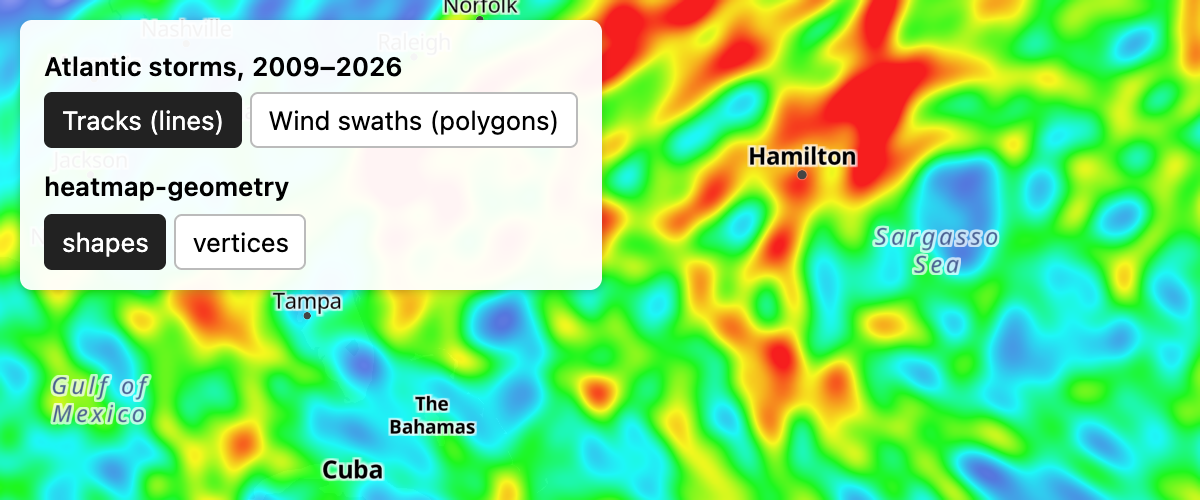
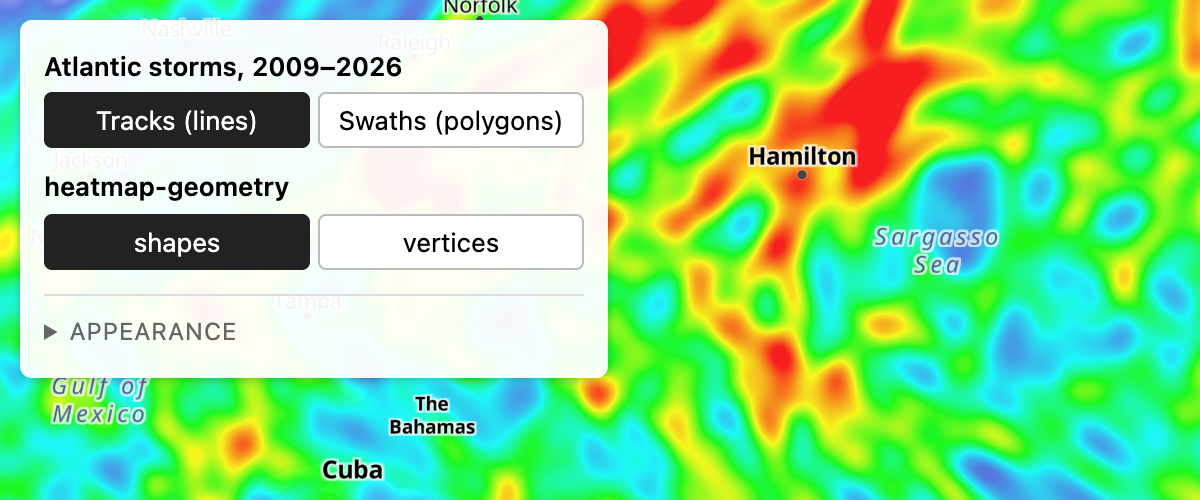
Add appearance controls to the lines and polygons heatmap example

Changed region(s): [[0.0, 0.03, 0.5242, 0.78]]

diff --git a/test/examples/create-a-heatmap-of-lines-and-polygons.html b/test/examples/create-a-heatmap-of-lines-and-polygons.html
@@ -14,15 +14,19 @@
         body { margin: 0; padding: 0; font: 13px/1.4 system-ui, sans-serif; }
         html, body, #map { height: 100%; }
         #panel {
-            position: absolute; top: 10px; left: 10px; padding: 10px 12px;
-            background: rgba(255, 255, 255, 0.95); border-radius: 6px; box-shadow: 0 1px 4px rgba(0, 0, 0, 0.2);
+            position: absolute; top: 10px; left: 10px; width: 270px; max-height: calc(100% - 40px); overflow-y: auto;
+            padding: 10px 12px; background: rgba(255, 255, 255, 0.95); border-radius: 6px; box-shadow: 0 1px 4px rgba(0, 0, 0, 0.2);
         }
+        summary { font-size: 12px; text-transform: uppercase; letter-spacing: 0.04em; color: #666; margin: 12px 0 4px; border-top: 1px solid #ddd; padding-top: 10px; cursor: pointer; }
         .row { margin: 4px 0 10px; }
         .row:last-child { margin-bottom: 0; }
-        .row label { display: block; font-weight: 600; margin-bottom: 4px; }
+        .row label { display: flex; justify-content: space-between; font-weight: 600; margin-bottom: 4px; }
+        .row label output { font-weight: 400; color: #555; }
         .seg { display: flex; gap: 4px; }
-        .seg button { padding: 4px 8px; border: 1px solid #bbb; background: #fff; border-radius: 4px; cursor: pointer; font: inherit; }
+        .seg button { flex: 1; padding: 4px 6px; border: 1px solid #bbb; background: #fff; border-radius: 4px; cursor: pointer; font: inherit; }
         .seg button.on { background: #222; color: #fff; border-color: #222; }
+        input[type=range], select { width: 100%; margin: 0; }
+        #ramp { height: 8px; border-radius: 2px; margin-top: 6px; }
     </style>
 </head>
 <body>
@@ -32,7 +36,7 @@
         <label>Atlantic storms, 2009–2026</label>
         <div class="seg" id="data">
             <button data-layer="tracks" class="on">Tracks (lines)</button>
-            <button data-layer="swaths">Wind swaths (polygons)</button>
+            <button data-layer="swaths">Swaths (polygons)</button>
         </div>
     </div>
     <div class="row">
@@ -42,10 +46,81 @@
             <button data-geometry="vertices">vertices</button>
         </div>
     </div>
+
+    <details id="appearance" open>
+    <summary>Appearance</summary>
+    <div class="row">
+        <label for="radius">Radius <output id="radius-value"></output></label>
+        <input id="radius" type="range" min="1" max="60" step="1">
+    </div>
+    <div class="row">
+        <label for="top">Top colour at <output id="top-value"></output></label>
+        <input id="top" type="range" min="1" max="60" step="1">
+    </div>
+    <div class="row">
+        <label for="opacity">Opacity <output id="opacity-value"></output></label>
+        <input id="opacity" type="range" min="0" max="1" step="0.05">
+    </div>
+    <div class="row">
+        <label>Weight</label>
+        <div class="seg" id="weight">
+            <button data-weight="equal" class="on">Every storm 1</button>
+            <button data-weight="category">Peak category</button>
+        </div>
+    </div>
+    <div class="row">
+        <label for="colors">Colours</label>
+        <select id="colors">
+            <option value="default">Default</option>
+            <option value="fire">Fire</option>
+            <option value="viridis">Viridis</option>
+            <option value="blues">Blues</option>
+        </select>
+        <div id="ramp"></div>
+    </div>
+    </details>
 </div>
 
 <script type="module">
     import * as maplibregl from '../../dist/maplibre-gl-dev.mjs';
+
+    const LAYERS = ['tracks', 'swaths'];
+
+    // Each layer keeps its own radius, scale and opacity, since tracks and swaths read best with
+    // different values. `top` is the density that reaches the top of the colour ramp: with
+    // `heatmap-geometry: shapes`, a long line or a polygon adds weight times intensity, so an
+    // intensity of 1 / top colours a spot covered by `top` storms of weight 1 at the top.
+    const settings = {
+        tracks: {radius: 20, top: 10, opacity: 0.85},
+        swaths: {radius: 20, top: 30, opacity: 0.85}
+    };
+    let current = 'tracks';
+
+    const WEIGHTS = {
+        equal: 1,
+        // Tropical storms count 0.5 and a category 5 hurricane counts 3.
+        category: ['+', 0.5, ['*', 0.5, ['get', 'max_category']]]
+    };
+
+    const RAMPS = {
+        default: undefined,
+        fire: ['interpolate', ['linear'], ['heatmap-density'],
+            0, 'rgba(255, 255, 178, 0)', 0.15, '#fed976', 0.4, '#fd8d3c', 0.7, '#e31a1c', 1, '#800026'],
+        viridis: ['interpolate', ['linear'], ['heatmap-density'],
+            0, 'rgba(68, 1, 84, 0)', 0.1, '#440154', 0.35, '#31688e', 0.6, '#35b779', 1, '#fde725'],
+        blues: ['interpolate', ['linear'], ['heatmap-density'],
+            0, 'rgba(222, 235, 247, 0)', 0.2, '#c6dbef', 0.5, '#6baed6', 0.8, '#2171b5', 1, '#08306b']
+    };
+
+    const RAMP_PREVIEWS = {
+        default: 'linear-gradient(to right, rgba(0,0,255,0), royalblue 10%, cyan 30%, lime 50%, yellow 70%, red)',
+        fire: 'linear-gradient(to right, rgba(255,255,178,0), #fed976 15%, #fd8d3c 40%, #e31a1c 70%, #800026)',
+        viridis: 'linear-gradient(to right, rgba(68,1,84,0), #440154 10%, #31688e 35%, #35b779 60%, #fde725)',
+        blues: 'linear-gradient(to right, rgba(222,235,247,0), #c6dbef 20%, #6baed6 50%, #2171b5 80%, #08306b)'
+    };
+
+    // Leave the appearance controls folded on small screens, so the map stays visible.
+    if (window.innerWidth < 700) document.getElementById('appearance').open = false;
 
     const map = new maplibregl.Map({
         container: 'map',
@@ -61,35 +136,37 @@
         map.addSource('tracks', {type: 'geojson', data: '../../docs/assets/atlantic-storm-tracks.geojson'});
         map.addSource('swaths', {type: 'geojson', data: '../../docs/assets/atlantic-wind-swaths.geojson'});
 
-        // With `shapes`, a track adds its weight times the intensity all along its length, so an
-        // intensity of 1/10 colours a spot crossed by 10 tracks at the top of the ramp.
-        map.addLayer({
-            id: 'tracks',
-            type: 'heatmap',
-            source: 'tracks',
-            layout: {'heatmap-geometry': 'shapes'},
-            paint: {
-                'heatmap-radius': 20,
-                'heatmap-intensity': 1 / 10,
-                'heatmap-opacity': 0.85
-            }
-        }, firstLabel);
+        for (const id of LAYERS) {
+            const {radius, top, opacity} = settings[id];
+            map.addLayer({
+                id,
+                type: 'heatmap',
+                source: id,
+                // The swaths file holds 34, 50 and 64 kt swaths; show the tropical-storm ones.
+                ...(id === 'swaths' ? {filter: ['==', ['get', 'wind_kt'], 34]} : {}),
+                layout: {'heatmap-geometry': 'shapes', 'visibility': id === current ? 'visible' : 'none'},
+                paint: {
+                    'heatmap-radius': radius,
+                    'heatmap-intensity': 1 / top,
+                    'heatmap-opacity': opacity
+                }
+            }, firstLabel);
+        }
 
-        // A swath adds its weight times the intensity over its whole area: here, 30 overlapping
-        // tropical-storm swaths reach the top of the ramp.
-        map.addLayer({
-            id: 'swaths',
-            type: 'heatmap',
-            source: 'swaths',
-            filter: ['==', ['get', 'wind_kt'], 34],
-            layout: {'heatmap-geometry': 'shapes', 'visibility': 'none'},
-            paint: {
-                'heatmap-radius': 20,
-                'heatmap-intensity': 1 / 30,
-                'heatmap-opacity': 0.85
-            }
-        }, firstLabel);
+        wireControls();
+        showSettings();
     });
+
+    /** Moves the sliders to the visible layer's settings. */
+    function showSettings() {
+        const {radius, top, opacity} = settings[current];
+        document.getElementById('radius').value = radius;
+        document.getElementById('top').value = top;
+        document.getElementById('opacity').value = opacity;
+        document.getElementById('radius-value').textContent = `${radius} px`;
+        document.getElementById('top-value').textContent = `${top} storms`;
+        document.getElementById('opacity-value').textContent = opacity.toFixed(2);
+    }
 
     function choose(groupId, apply) {
         const buttons = document.querySelectorAll(`#${groupId} button`);
@@ -101,15 +178,51 @@
         }
     }
 
-    choose('data', ({layer}) => {
-        map.setLayoutProperty('tracks', 'visibility', layer === 'tracks' ? 'visible' : 'none');
-        map.setLayoutProperty('swaths', 'visibility', layer === 'swaths' ? 'visible' : 'none');
-    });
+    function slider(id, apply) {
+        document.getElementById(id).addEventListener('input', (event) => {
+            apply(Number(event.target.value));
+            showSettings();
+        });
+    }
 
-    choose('geometry', ({geometry}) => {
-        map.setLayoutProperty('tracks', 'heatmap-geometry', geometry);
-        map.setLayoutProperty('swaths', 'heatmap-geometry', geometry);
-    });
+    function wireControls() {
+        choose('data', ({layer}) => {
+            current = layer;
+            for (const id of LAYERS) map.setLayoutProperty(id, 'visibility', id === current ? 'visible' : 'none');
+            showSettings();
+        });
+
+        choose('geometry', ({geometry}) => {
+            for (const id of LAYERS) map.setLayoutProperty(id, 'heatmap-geometry', geometry);
+        });
+
+        slider('radius', (radius) => {
+            settings[current].radius = radius;
+            map.setPaintProperty(current, 'heatmap-radius', radius);
+        });
+
+        slider('top', (top) => {
+            settings[current].top = top;
+            map.setPaintProperty(current, 'heatmap-intensity', 1 / top);
+        });
+
+        slider('opacity', (opacity) => {
+            settings[current].opacity = opacity;
+            map.setPaintProperty(current, 'heatmap-opacity', opacity);
+        });
+
+        choose('weight', ({weight}) => {
+            for (const id of LAYERS) map.setPaintProperty(id, 'heatmap-weight', WEIGHTS[weight]);
+        });
+
+        const colors = document.getElementById('colors');
+        const ramp = document.getElementById('ramp');
+        ramp.style.background = RAMP_PREVIEWS.default;
+        colors.addEventListener('change', () => {
+            for (const id of LAYERS) map.setPaintProperty(id, 'heatmap-color', RAMPS[colors.value]);
+            ramp.style.background = RAMP_PREVIEWS[colors.value];
+        });
+    }
 </script>
 </body>
 </html>
